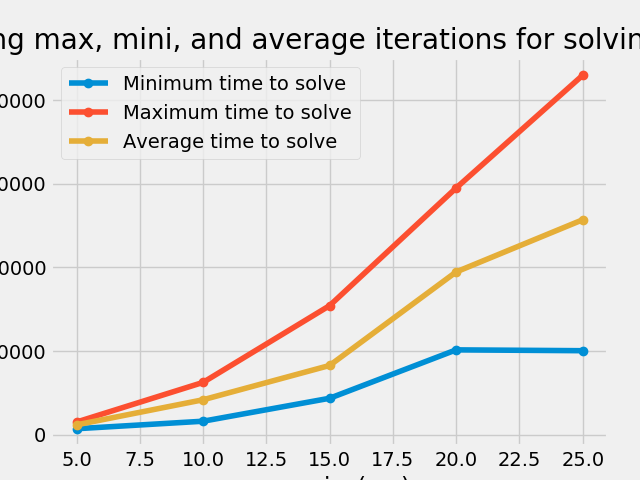
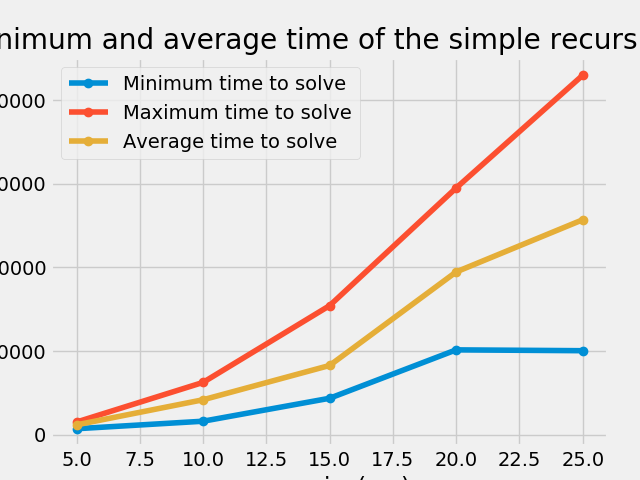
Final plotting + deleting unused files2

Changed region(s): [[0.0, 0.0625, 1.0, 0.125]]

diff --git a/plotTimer.py b/plotTimer.py
@@ -18,7 +18,7 @@ plt.plot(mazesize, timeMax, marker="o", label="Maximum time to solve")
 plt.plot(mazesize, timeAvg, marker="o", label="Average time to solve") 
 # Can not plot becuase x & y needs to be same size
 
-plt.title("Plot showing max, mini, and average iterations for solving the maze.")
+plt.title("A plot showing the maximum, minimum and average time of the simple recursive algorithm for solving the maze.")
 plt.xlabel("mazesize(x,y)")
 plt.ylabel("Time(μs)")
 plt.legend()
